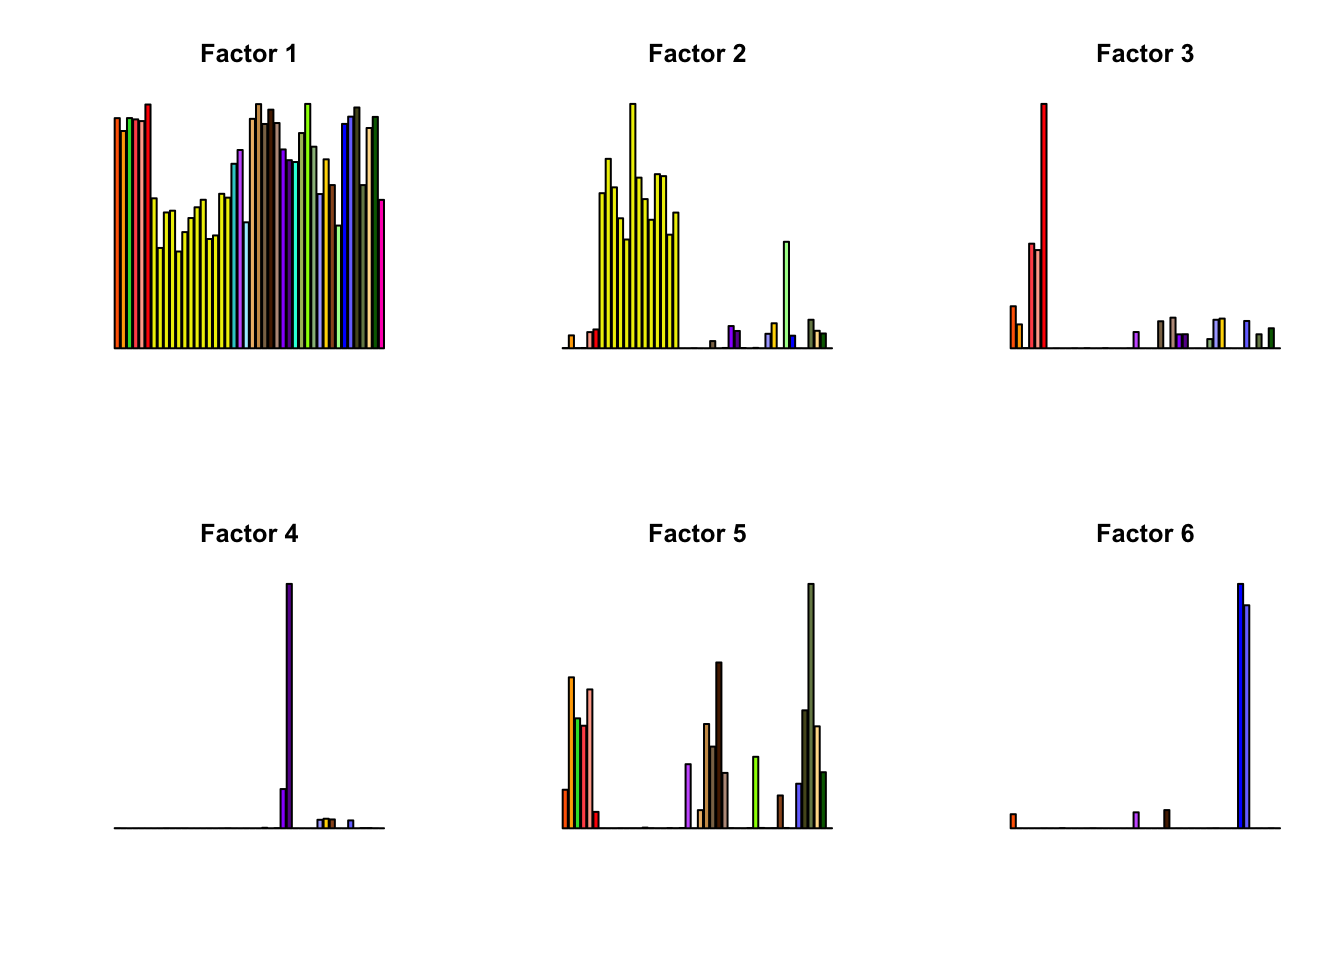
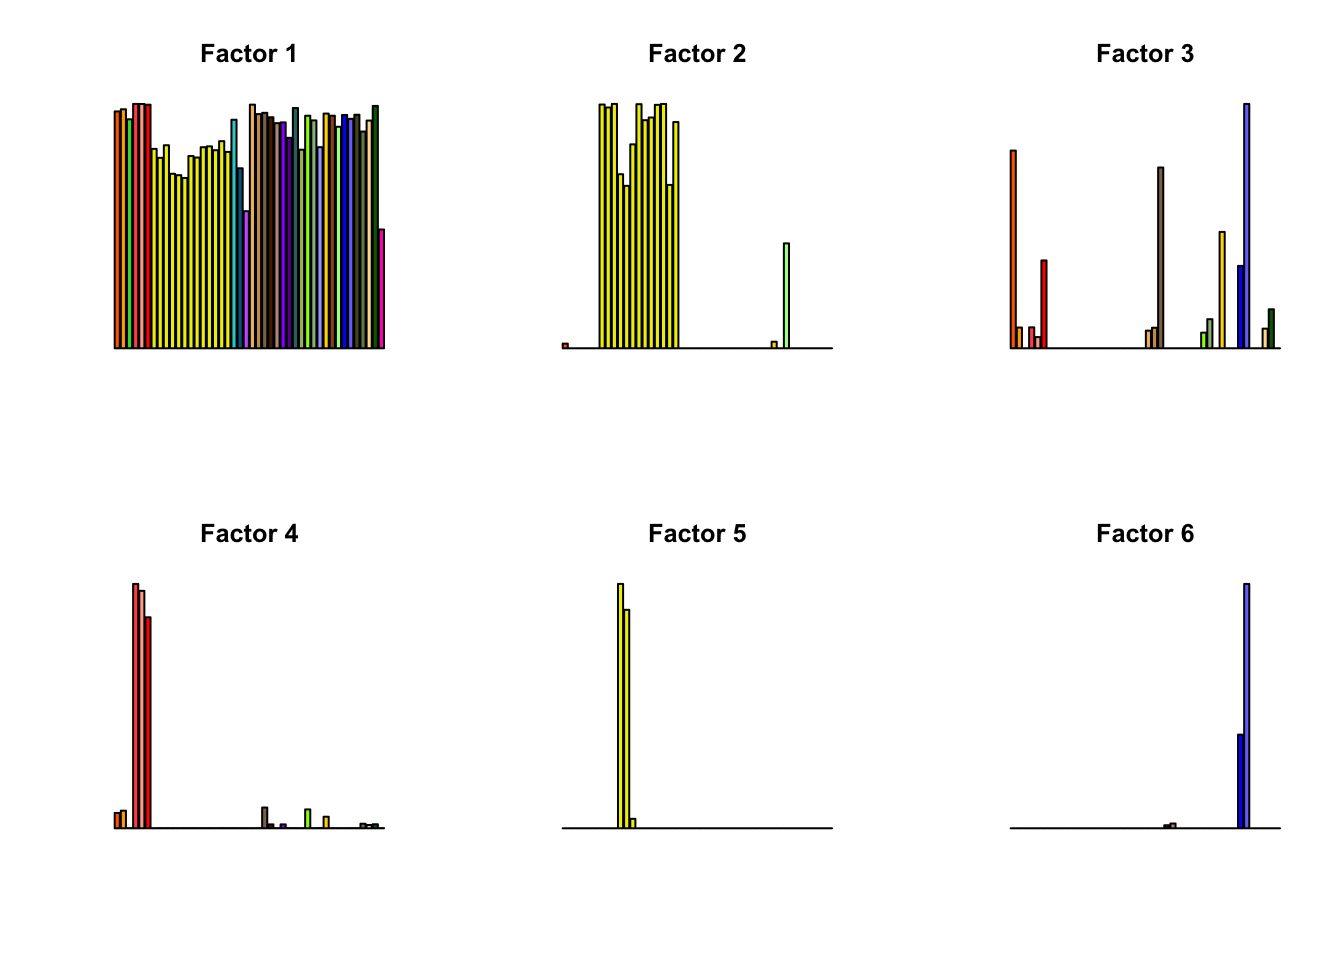
Build site.

diff --git a/docs/SexDEpipeline.final.html b/docs/SexDEpipeline.final.html
@@ -462,7 +462,7 @@ div.section {
 <div class="tab-content">
 <div id="summary" class="tab-pane fade in active">
 <p>
-<strong>Last updated:</strong> 2020-01-15
+<strong>Last updated:</strong> 2020-02-20
 </p>
 <p>
 <strong>Checks:</strong> <span class="glyphicon glyphicon-ok text-success" aria-hidden="true"></span> 7 <span class="glyphicon glyphicon-exclamation-sign text-danger" aria-hidden="true"></span> 0
@@ -553,10 +553,10 @@ This reproducible <a href="http://rmarkdown.rstudio.com">R Markdown</a> analysis
 <div class="panel panel-default">
 <div class="panel-heading">
 <p class="panel-title">
-<a data-toggle="collapse" data-parent="#workflowr-checks" href="#strongRepositoryversionstrongahrefhttpsgithubcomzouyuxinGTExtree95942644f7467370bec2331d478e11784fd8855etargetblank9594264a"> <span class="glyphicon glyphicon-ok text-success" aria-hidden="true"></span> <strong>Repository version:</strong> <a href="https://github.com/zouyuxin/GTEx/tree/95942644f7467370bec2331d478e11784fd8855e" target="_blank">9594264</a> </a>
+<a data-toggle="collapse" data-parent="#workflowr-checks" href="#strongRepositoryversionstrongahrefhttpsgithubcomzouyuxinGTExtreebde0c5eea83eda1de5650e908e9558d2d4d08d98targetblankbde0c5ea"> <span class="glyphicon glyphicon-ok text-success" aria-hidden="true"></span> <strong>Repository version:</strong> <a href="https://github.com/zouyuxin/GTEx/tree/bde0c5eea83eda1de5650e908e9558d2d4d08d98" target="_blank">bde0c5e</a> </a>
 </p>
 </div>
[2 lines of base64/hex data omitted]
 <div class="panel-body">
 <p>
 Great! You are using Git for version control. Tracking code development and connecting the code version to the results is critical for reproducibility. The version displayed above was the version of the Git repository at the time these results were generated. <br><br> Note that you need to be careful to ensure that all relevant files for the analysis have been committed to Git prior to generating the results (you can use <code>wflow_publish</code> or <code>wflow_git_commit</code>). workflowr only checks the R Markdown file, but you know if there are other scripts or data files that it depends on. Below is the status of the Git repository when the results were generated:
@@ -574,13 +574,13 @@ Untracked files:
     Untracked:  code/SexDE.TAU.R
     Untracked:  code/SexDE_get_genes.R
     Untracked:  data/.DS_Store
+    Untracked:  data/color_abb_codes.Robj
     Untracked:  data/cor_tissues_non_ash_voom_pearson.rda
     Untracked:  data/gene_names_GTEX_V6.txt
     Untracked:  data/genewide_ash_out_tissue_mat_halfuniform_non_mode.rda
     Untracked:  data/meta.ivw.sexde_logfc_matrix.sexde.svs.allgenes.v8.FINAL.txt
     Untracked:  data/order_index.rda
     Untracked:  data/samples_id.txt
-    Untracked:  data/sexde.data.rds
     Untracked:  data/sexde/
     Untracked:  data/tissuewide_pearson_halfuniform_tissuewide_non_mode.rda
     Untracked:  output/.DS_Store
@@ -593,6 +593,7 @@ Untracked files:
 
 Unstaged changes:
     Modified:   analysis/SexDEPlots.Rmd
+    Modified:   analysis/SexDEpipeline.Rmd
 
 </code></pre>
 <p>
@@ -631,6 +632,40 @@ Message
 </tr>
 </thead>
 <tbody>
+<tr>
+<td>
+Rmd
+</td>
+<td>
+<a href="https://github.com/zouyuxin/GTEx/blob/bde0c5eea83eda1de5650e908e9558d2d4d08d98/analysis/SexDEpipeline.final.Rmd" target="_blank">bde0c5e</a>
+</td>
+<td>
+zouyuxin
+</td>
+<td>
+2020-02-20
+</td>
+<td>
+wflow_publish(“analysis/SexDEpipeline.final.Rmd”)
+</td>
+</tr>
+<tr>
+<td>
+html
+</td>
+<td>
+<a href="https://rawcdn.githack.com/zouyuxin/GTEx/7d4d6e3544cccc25500251d693a1be36612dec2a/docs/SexDEpipeline.final.html" target="_blank">7d4d6e3</a>
+</td>
+<td>
+zouyuxin
+</td>
+<td>
+2020-01-15
+</td>
+<td>
+Build site.
+</td>
+</tr>
 <tr>
 <td>
 Rmd
@@ -695,17 +730,20 @@ wflow_publish(“analysis/SexDEpipeline.final.Rmd”)
 library(kableExtra)
 library(ggplot2)
 library(gridExtra)</code></pre>
-<pre class="r"><code>sexde &lt;- readRDS(&#39;data/sexde.data.rds&#39;)
+<pre class="r"><code>sexde &lt;- readRDS(&#39;data/sexde/sexde.data.rds&#39;)
 
-missing.tissues &lt;- c(7, 24, 25, 31, 40, 43, 49, 51, 52)
-gtex.colors &lt;- read.table(&quot;https://github.com/stephenslab/gtexresults/blob/master/data/GTExColors.txt?raw=TRUE&quot;, sep = &#39;\t&#39;, comment.char = &#39;&#39;)[-missing.tissues, 2]
-gtex.colors &lt;- as.character(gtex.colors)</code></pre>
+load(&quot;data/color_abb_codes.Robj&quot;)
+
+# Tissue color palette
+color_code$Tissue[18] = &#39;Brain_Spinal_cord_cervical_c.1&#39;
+color_code$Tissue[22] = &#39;Cells_EBV.transformed_lymphocytes&#39;
+gtex.colors &lt;- color_code$color</code></pre>
 <p>The results are from mashr_flashr_pipeline. We include the data driven covariance matrices based on the first three principal components and factors from <code>flash</code>.</p>
 <div id="flash-model-based-on-effects" class="section level2">
 <h2>Flash model based on effects:</h2>
 <pre class="r"><code>factors = readRDS(&#39;output/sexde.final/outputEE/sexde.data.EE.flash.model.rds&#39;)$factors
 par(mfrow = c(2, 3))
-for(k in 1:13){
+for(k in 1:10){
   barplot(factors[,k], col=gtex.colors, names.arg = FALSE, axes = FALSE, main=paste0(&quot;Factor &quot;, k))
 }</code></pre>
 <p><img src="figure/SexDEpipeline.final.Rmd/flash%20EE%20factors%20plot-1.png" width="672" style="display: block; margin: auto;" /></p>
@@ -784,50 +822,12 @@ zouyuxin
 </table>
 </div>
 </div>
-<p><img src="figure/SexDEpipeline.final.Rmd/flash%20EE%20factors%20plot-3.png" width="672" style="display: block; margin: auto;" /></p>
-<p>
-<button type="button" class="btn btn-default btn-xs btn-workflowr btn-workflowr-fig" data-toggle="collapse" data-target="#fig-no-spaces-flash-EE-factors-plot-3">
-Past versions of “flash EE factors plot-3.png”
-</button>
-</p>
-<div id="fig-no-spaces-flash-EE-factors-plot-3" class="collapse">
-<div class="table-responsive">
-<table class="table table-condensed table-hover">
-<thead>
-<tr>
-<th>
-Version
-</th>
-<th>
-Author
-</th>
-<th>
-Date
-</th>
-</tr>
-</thead>
-<tbody>
-<tr>
-<td>
-<a href="https://github.com/zouyuxin/GTEx/blob/9694106b7c46246ebd7693650b389dfe26cebf43/docs/figure/SexDEpipeline.final.Rmd/flash EE factors plot-3.png" target="_blank">9694106</a>
-</td>
-<td>
-zouyuxin
-</td>
-<td>
-2020-01-15
-</td>
-</tr>
-</tbody>
-</table>
-</div>
-</div>
 </div>
 <div id="flash-model-based-on-z-scores" class="section level2">
 <h2>Flash model based on z scores:</h2>
 <pre class="r"><code>factors = readRDS(&#39;output/sexde.final/outputEZ/sexde.data.EZ.flash.model.rds&#39;)$factors
 par(mfrow = c(2, 3))
-for(k in 1:17){
+for(k in 1:20){
   barplot(factors[,k], col=gtex.colors, names.arg = FALSE, axes = FALSE, main=paste0(&quot;Factor &quot;, k))
 }</code></pre>
 <p><img src="figure/SexDEpipeline.final.Rmd/flash%20EZ%20factors%20plot-1.png" width="672" style="display: block; margin: auto;" /></p>
@@ -944,6 +944,7 @@ zouyuxin
 </table>
 </div>
 </div>
+<p><img src="figure/SexDEpipeline.final.Rmd/flash%20EZ%20factors%20plot-4.png" width="672" style="display: block; margin: auto;" /></p>
 <pre class="r"><code># read model
 m_mle_EE = readRDS(&#39;output/sexde.final/outputEE/sexde.ee.fl_pc3.v_mle.mash_model.rds&#39;)
 m_mle_EZ = readRDS(&#39;output/sexde.final/outputEZ/sexde.ez.fl_pc3.v_mle.mash_model.rds&#39;)</code></pre>
@@ -1058,10 +1059,10 @@ EZ
 MLE
 </td>
 <td style="text-align:right;">
-1706731
+-5797557
 </td>
 <td style="text-align:right;">
-1719887
+-5787241
 </td>
 </tr>
 </tbody>
@@ -1134,10 +1135,10 @@ EZ
 MLE
 </td>
 <td style="text-align:right;">
-17391
+15027
 </td>
 <td style="text-align:right;">
-19556
+15984
 </td>
 </tr>
 </tbody>
@@ -1193,12 +1194,12 @@ zouyuxin
 </table>
 </div>
 </div>
-<pre class="r"><code>meta_result = read.table(&#39;data/meta.ivw.sexde_logfc_matrix.sexde.svs.allgenes.v8.FINAL.txt&#39;, header = TRUE)
+<pre class="r"><code>meta_result = read.table(&#39;data/sexde/meta.ivw.sexde_logfc_matrix.v8.MASH.txt&#39;, header = TRUE)
 meta_gene = as.character(meta_result$gene[meta_result$padj &lt; 0.05])
 meta_gene = sapply(strsplit(meta_gene, &#39;_&#39;, fixed = TRUE), function(x) x[1])
 length(intersect(meta_gene, names(get_significant_results(m_mle_EZ))))</code></pre>
-<pre><code>[1] 9707</code></pre>
-<p>There are 11212 significant genes from meta analysis, 9707 of them are significant in mash model (EZ) as well.</p>
+<pre><code>[1] 8572</code></pre>
+<p>There are 9405 significant genes from meta analysis, 8572 of them are significant in mash model (EZ) as well.</p>
 <p>The gene significant in meta analysis, not in <code>MLE EZ</code>:</p>
 <pre class="r"><code>ind.name = setdiff(meta_gene, names(get_significant_results(m_mle_EZ)))[1]
 ind = which(row.names(sexde$random.b) == ind.name)
@@ -1245,6 +1246,17 @@ Date
 <tbody>
 <tr>
 <td>
+<a href="https://github.com/zouyuxin/GTEx/blob/7d4d6e3544cccc25500251d693a1be36612dec2a/docs/figure/SexDEpipeline.final.Rmd/unnamed-chunk-5-1.png" target="_blank">7d4d6e3</a>
+</td>
+<td>
+zouyuxin
+</td>
+<td>
+2020-01-15
+</td>
+</tr>
+<tr>
+<td>
 <a href="https://github.com/zouyuxin/GTEx/blob/9694106b7c46246ebd7693650b389dfe26cebf43/docs/figure/SexDEpipeline.final.Rmd/unnamed-chunk-5-1.png" target="_blank">9694106</a>
 </td>
 <td>
@@ -1268,7 +1280,7 @@ zouyuxin
 <pre class="r"><code>sessionInfo()</code></pre>
 <pre><code>R version 3.5.3 (2019-03-11)
 Platform: x86_64-apple-darwin15.6.0 (64-bit)
-Running under: macOS  10.15.2
+Running under: macOS  10.15.3
 
 Matrix products: default
 BLAS: /Library/Frameworks/R.framework/Versions/3.5/Resources/lib/libRblas.0.dylib
@@ -1282,32 +1294,32 @@ attached base packages:
 
 other attached packages:
 [1] gridExtra_2.3     ggplot2_3.2.0     kableExtra_1.1.0  knitr_1.23       
-[5] mashr_0.2.21.0641 ashr_2.2-39      
+[5] mashr_0.2.21.0641 ashr_2.2-41      
 
 loaded via a namespace (and not attached):
  [1] Rcpp_1.0.3        mvtnorm_1.0-11    lattice_0.20-38  
  [4] assertthat_0.2.1  zeallot_0.1.0     rprojroot_1.3-2  
- [7] digest_0.6.23     foreach_1.4.7     truncnorm_1.0-8  
+ [7] digest_0.6.23     foreach_1.4.8     truncnorm_1.0-8  
 [10] R6_2.4.1          plyr_1.8.5        backports_1.1.5  
-[13] evaluate_0.13     httr_1.4.0        highr_0.8        
+[13] evaluate_0.13     highr_0.8         httr_1.4.0       
 [16] pillar_1.4.2      rlang_0.4.2       lazyeval_0.2.2   
-[19] pscl_1.5.2        rstudioapi_0.10   whisker_0.3-2    
-[22] Matrix_1.2-15     rmarkdown_1.13    labeling_0.3     
-[25] webshot_0.5.1     readr_1.3.1       stringr_1.4.0    
-[28] munsell_0.5.0     mixsqp_0.3-10     compiler_3.5.3   
-[31] httpuv_1.5.1      xfun_0.7          pkgconfig_2.0.3  
-[34] SQUAREM_2017.10-1 htmltools_0.3.6   tidyselect_0.2.5 
-[37] tibble_2.1.3      workflowr_1.5.0   codetools_0.2-16 
-[40] viridisLite_0.3.0 crayon_1.3.4      dplyr_0.8.1      
-[43] withr_2.1.2       later_0.8.0       MASS_7.3-51.1    
-[46] grid_3.5.3        gtable_0.3.0      git2r_0.26.1     
-[49] magrittr_1.5      scales_1.0.0      stringi_1.4.3    
-[52] fs_1.3.1          promises_1.0.1    doParallel_1.0.15
-[55] xml2_1.2.0        vctrs_0.2.0       rmeta_3.0        
-[58] iterators_1.0.12  tools_3.5.3       glue_1.3.1       
-[61] purrr_0.3.2       hms_0.5.2         abind_1.4-5      
-[64] parallel_3.5.3    yaml_2.2.0        colorspace_1.4-1 
-[67] rvest_0.3.4       corrplot_0.84    </code></pre>
+[19] pscl_1.5.2        rstudioapi_0.10   irlba_2.3.3      
+[22] whisker_0.3-2     Matrix_1.2-15     rmarkdown_1.13   
+[25] labeling_0.3      webshot_0.5.1     readr_1.3.1      
+[28] stringr_1.4.0     munsell_0.5.0     mixsqp_0.3-18    
+[31] compiler_3.5.3    httpuv_1.5.1      xfun_0.7         
+[34] pkgconfig_2.0.3   SQUAREM_2020.1    htmltools_0.3.6  
+[37] tidyselect_0.2.5  tibble_2.1.3      workflowr_1.5.0  
+[40] codetools_0.2-16  viridisLite_0.3.0 crayon_1.3.4     
+[43] dplyr_0.8.1       withr_2.1.2       later_0.8.0      
+[46] MASS_7.3-51.1     grid_3.5.3        gtable_0.3.0     
+[49] git2r_0.26.1      magrittr_1.5      scales_1.0.0     
+[52] stringi_1.4.3     fs_1.3.1          promises_1.0.1   
+[55] doParallel_1.0.15 xml2_1.2.0        vctrs_0.2.0      
+[58] rmeta_3.0         iterators_1.0.12  tools_3.5.3      
+[61] glue_1.3.1        purrr_0.3.3       hms_0.5.2        
+[64] abind_1.4-5       parallel_3.5.3    yaml_2.2.0       
+[67] colorspace_1.4-1  rvest_0.3.4       corrplot_0.84    </code></pre>
 </div>
 </div>
 
